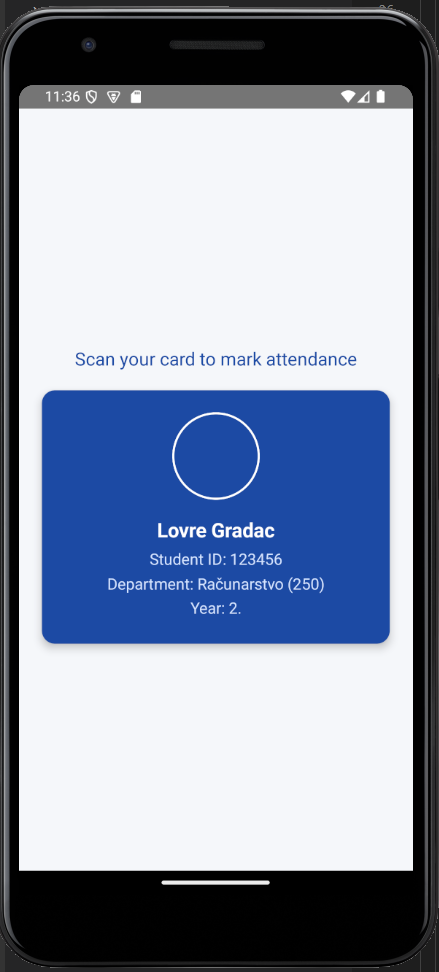
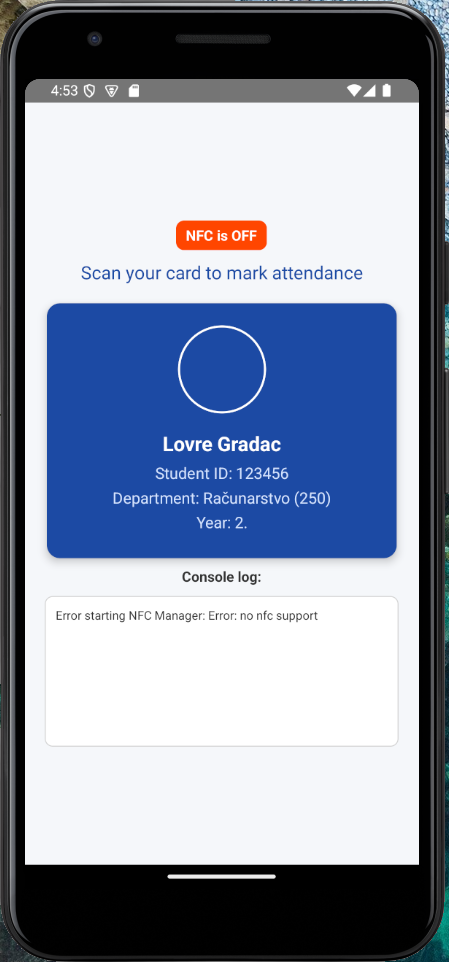
nfc functionality

Changed region(s): [[0.0, 0.0, 1.0, 1.0], [0.0888, 0.2183, 0.8884, 0.6861]]

diff --git a/app/screens/LoginScreen.tsx b/app/screens/LoginScreen.tsx
@@ -1,64 +1,162 @@
-import React, { useState } from 'react';
-import { View, Text, TextInput, StyleSheet, TouchableOpacity, Image, Alert } from 'react-native';
+import React, { useRef, useState, useEffect } from 'react';
+import {
+  View,
+  Text,
+  StyleSheet,
+  Image,
+  Animated,
+  TouchableWithoutFeedback,
+  ScrollView,
+  Alert,
+} from 'react-native';
+import NfcManager, { NfcTech, Ndef } from 'react-native-nfc-manager';
 
-const LoginScreen = ({ navigation }: any) => {
-  const [email, setEmail] = useState('');
-  const [password, setPassword] = useState('');
+const StudentScreen = () => {
+  const pulseAnim = useRef(new Animated.Value(1)).current;
+  const [isWriting, setIsWriting] = useState(false);
+  const [nfcStatus, setNfcStatus] = useState(false);
+  const [logs, setLogs] = useState([]);
 
-  const handleLogin = () => {
-    const hardcodedEmail = 'student';
-    const hardcodedPassword = '123';
+  const addLog = (message) => {
+    setLogs((prevLogs) => [...prevLogs, message]);
+  };
 
-    if (email.trim() === hardcodedEmail && password === hardcodedPassword) {
-      Alert.alert('Success!', 'Welcome, Student!', [
-        { text: 'Proceed', onPress: () => navigation.navigate('ProfessorScreen') },
-      ]);
-    } else {
-      Alert.alert('Login Failed', 'Invalid email or password. Please try again.');
+  useEffect(() => {
+    NfcManager.start()
+      .then(() => {
+        checkNfcStatus();
+        addLog('NFC Manager started.');
+      })
+      .catch((err) => addLog(`Error starting NFC Manager: ${err}`));
+
+    return () => {
+      addLog('Stopping NFC Manager...');
+      NfcManager.stop();
+    };
+  }, []);
+
+  const checkNfcStatus = async () => {
+    const isSupported = await NfcManager.isSupported();
+    if (!isSupported) {
+      addLog('NFC is not supported on this device.');
+      Alert.alert('NFC Not Supported', 'Your device does not support NFC.');
+      return;
+    }
+
+    const isEnabled = await NfcManager.isEnabled();
+    setNfcStatus(isEnabled);
+    addLog(`NFC is ${isEnabled ? 'ON' : 'OFF'}`);
+
+    if (!isEnabled) {
+      promptEnableNfc();
     }
   };
 
+  const promptEnableNfc = () => {
+    Alert.alert(
+      'NFC is Off',
+      'Please enable NFC to use this feature.',
+      [
+        {
+          text: 'Cancel',
+          style: 'cancel',
+        },
+        {
+          text: 'Go to Settings',
+          onPress: () => NfcManager.goToNfcSetting(),
+        },
+      ],
+      { cancelable: false }
+    );
+  };
+  const writeNdef = async () => {
+    let result = false;
+    addLog('Attempting to write NFC tag...');
+
+    try {
+      addLog('Requesting NFC technology...');
+      let resp = await NfcManager.requestTechnology(NfcTech.Ndef);
+      addLog(`Technology response: ${resp}`);
+
+      const bytes = Ndef.encodeMessage([Ndef.textRecord('Hello NFC')]);
+
+      if (bytes) {
+        await NfcManager.ndefHandler.writeNdefMessage(bytes);
+        result = true;
+        addLog("Successfully wrote NFC tag with message 'Hello NFC'");
+      }
+    } catch (ex) {
+      addLog(`Error writing NFC tag: ${ex}`);
+    } finally {
+      NfcManager.cancelTechnologyRequest();
+    }
+
+    return result;
+  };
+
+  const handleContainerPress = async () => {
+    if (isWriting) {
+      addLog('Tag already being written!');
+      return;
+    }
+
+    setIsWriting(true);
+    const success = await writeNdef();
+    setIsWriting(false);
+
+    if (success) {
+      addLog('NFC Tag Written Successfully!');
+    } else {
+      addLog('Failed to write NFC Tag!');
+    }
+  };
+
+  Animated.loop(
+    Animated.sequence([
+      Animated.timing(pulseAnim, {
+        toValue: 1.1,
+        duration: 1000,
+        useNativeDriver: true,
+      }),
+      Animated.timing(pulseAnim, {
+        toValue: 1,
+        duration: 1000,
+        useNativeDriver: true,
+      }),
+    ])
+  ).start();
+
   return (
-    <View style={styles.container}>
-      <Image
-        source={require('../assets/images/logo.png')}
-        style={styles.logo}
-        resizeMode="contain"
-      />
+    <TouchableWithoutFeedback onPress={handleContainerPress}>
+      <View style={styles.container}>
+        <Text style={[styles.nfcStatus, nfcStatus ? styles.nfcOn : styles.nfcOff]}>
+          NFC is {nfcStatus ? 'ON' : 'OFF'}
+        </Text>
 
-      <Text style={styles.title}>Welcome Back</Text>
-      <Text style={styles.subtitle}>Sign in to your account</Text>
+        <Text style={styles.subtitle}>Scan your card to mark attendance</Text>
+        <Animated.View style={[styles.card, { transform: [{ scale: pulseAnim }] }]}>
+          <Image
+            source={{ uri: 'https://via.placeholder.com/80' }}
+            style={styles.profileImage}
+          />
+          <View style={styles.cardDetails}>
+            <Text style={styles.cardName}>Lovre Gradac</Text>
+            <Text style={styles.cardInfo}>Student ID: 123456</Text>
+            <Text style={styles.cardInfo}>Department: Računarstvo (250)</Text>
+            <Text style={styles.cardInfo}>Year: 2.</Text>
+          </View>
+        </Animated.View>
 
-      <TextInput
-        style={styles.input}
-        placeholder="Email"
-        placeholderTextColor="#A2B6DF"
-        value={email}
-        onChangeText={setEmail}
-        keyboardType="email-address"
-        autoCapitalize="none"
-      />
-      <TextInput
-        style={styles.input}
-        placeholder="Password"
-        placeholderTextColor="#A2B6DF"
-        value={password}
-        onChangeText={setPassword}
-        secureTextEntry
-      />
-
-      <TouchableOpacity
-        style={[styles.loginButton, !email || !password ? styles.disabledButton : null]}
-        onPress={handleLogin}
-        disabled={!email || !password}
-      >
-        <Text style={styles.loginButtonText}>Login</Text>
-      </TouchableOpacity>
-
-      <TouchableOpacity onPress={() => Alert.alert('Password Recovery', 'Contact support for help.')}>
-        <Text style={styles.forgotPassword}>Forgot Password?</Text>
-      </TouchableOpacity>
-    </View>
+        <Text style={styles.logHeader}>Console log:</Text>
+        <ScrollView style={styles.logContainer}>
+          {logs.map((log, index) => (
+            <Text key={index} style={styles.logText}>
+              {log}
+            </Text>
+          ))}
+        </ScrollView>
+      </View>
+    </TouchableWithoutFeedback>
   );
 };
 
@@ -70,58 +168,82 @@ const styles = StyleSheet.create({
     backgroundColor: '#F5F7FA',
     paddingHorizontal: 20,
   },
-  logo: {
-    width: 150,
-    height: 150,
-    marginBottom: 20,
-  },
-  title: {
-    fontSize: 28,
+  nfcStatus: {
+    fontSize: 14,
     fontWeight: 'bold',
-    color: '#194aa4',
     marginBottom: 10,
+    paddingHorizontal: 10,
+    paddingVertical: 5,
+    borderRadius: 8,
+  },
+  nfcOn: {
+    color: '#FFFFFF',
+    backgroundColor: '#00A86B',
+  },
+  nfcOff: {
+    color: '#FFFFFF',
+    backgroundColor: '#FF4500',
   },
   subtitle: {
-    fontSize: 16,
-    color: '#5F6A7D',
-    marginBottom: 30,
-  },
-  input: {
-    width: '100%',
-    height: 50,
-    backgroundColor: '#FFFFFF',
-    borderRadius: 8,
-    borderColor: '#D3D3D3',
-    borderWidth: 1,
-    marginBottom: 15,
-    paddingHorizontal: 15,
-    fontSize: 16,
+    fontSize: 18,
     color: '#194aa4',
+    marginBottom: 30,
+    textAlign: 'center',
   },
-  loginButton: {
-    width: '100%',
-    height: 50,
+  card: {
     backgroundColor: '#194aa4',
-    justifyContent: 'center',
+    width: '90%',
+    borderRadius: 12,
+    padding: 20,
     alignItems: 'center',
-    borderRadius: 8,
-    marginTop: 10,
+    shadowColor: '#000',
+    shadowOpacity: 0.2,
+    shadowRadius: 10,
+    elevation: 5,
   },
-  disabledButton: {
-    backgroundColor: '#A2B6DF',
+  profileImage: {
+    width: 80,
+    height: 80,
+    borderRadius: 40,
+    borderWidth: 2,
+    borderColor: '#FFFFFF',
+    marginBottom: 15,
   },
-  loginButtonText: {
-    color: '#FFFFFF',
+  cardDetails: {
+    alignItems: 'center',
+  },
+  cardName: {
     fontSize: 18,
     fontWeight: 'bold',
+    color: '#FFFFFF',
+    marginBottom: 5,
   },
-  forgotPassword: {
-    marginTop: 20,
-    color: '#004080',
+  cardInfo: {
     fontSize: 14,
-    fontWeight: '600',
-    textDecorationLine: 'underline',
+    color: '#D3E3FF',
+    marginBottom: 3,
+  },
+  logHeader: {
+    fontSize: 14,
+    fontWeight: 'bold',
+    color: '#333',
+    marginTop: 20,
+    marginBottom: 10,
+  },
+  logContainer: {
+    width: '100%',
+    maxHeight: 150,
+    backgroundColor: '#FFFFFF',
+    borderRadius: 8,
+    padding: 10,
+    borderWidth: 1,
+    borderColor: '#D3D3D3',
+  },
+  logText: {
+    fontSize: 12,
+    color: '#333333',
+    marginBottom: 3,
   },
 });
 
-export default LoginScreen;
+export default StudentScreen;
